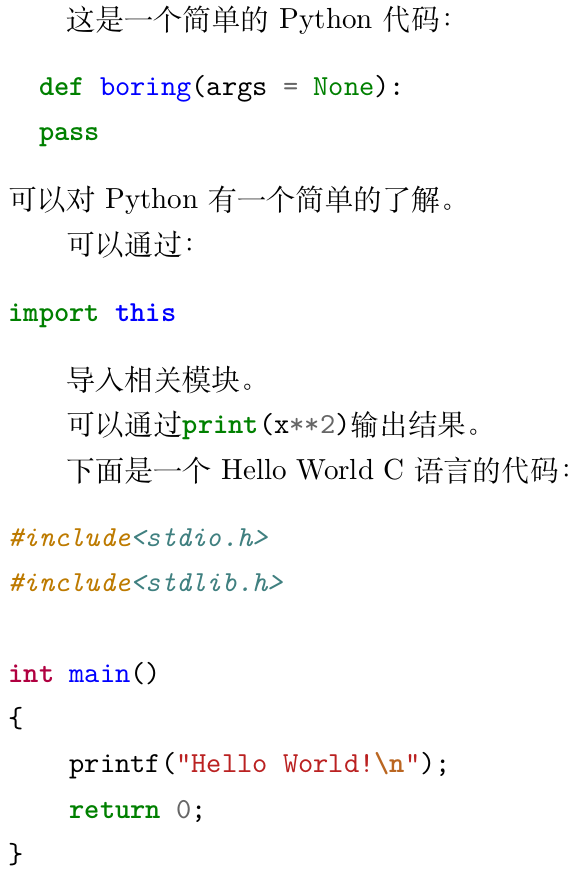
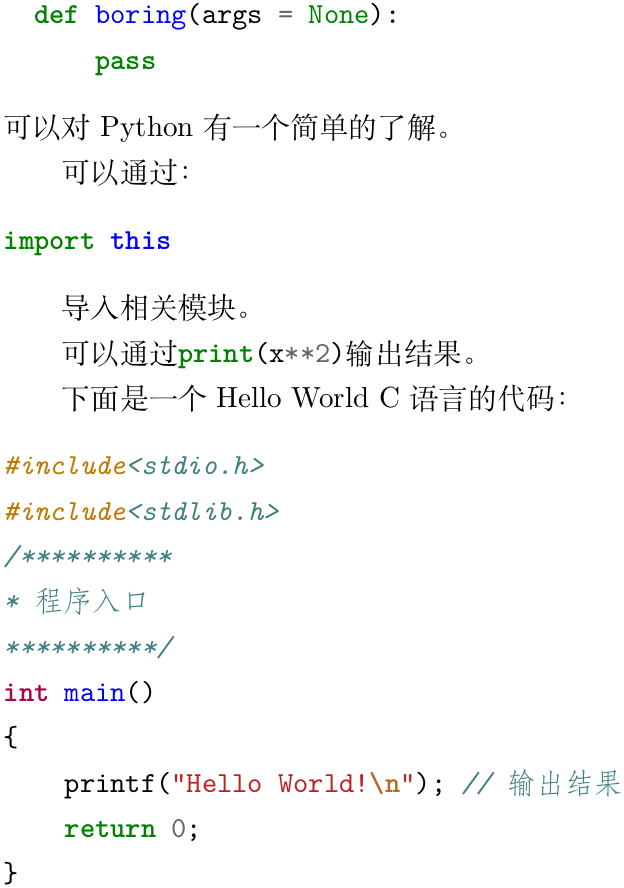
修订minted代码排版专栏文章中的Python代码缩进错误。

diff --git a/CodeTypesetting-minted/helloworld.c b/CodeTypesetting-minted/helloworld.c
@@ -1,8 +1,10 @@
 #include<stdio.h>
 #include<stdlib.h>
-
+/**********
+* 程序入口
+**********/
 int main()
 {
-    printf("Hello World!\n");
+    printf("Hello World!\n"); // 输出结果
     return 0;
 }

diff --git a/CodeTypesetting-minted/main.tex b/CodeTypesetting-minted/main.tex
@@ -6,7 +6,7 @@
 这是一个简单的Python代码：
 \begin{minted}{python}
   def boring(args = None):
-  pass
+      pass
 \end{minted}
 可以对Python有一个简单的了解。
 
